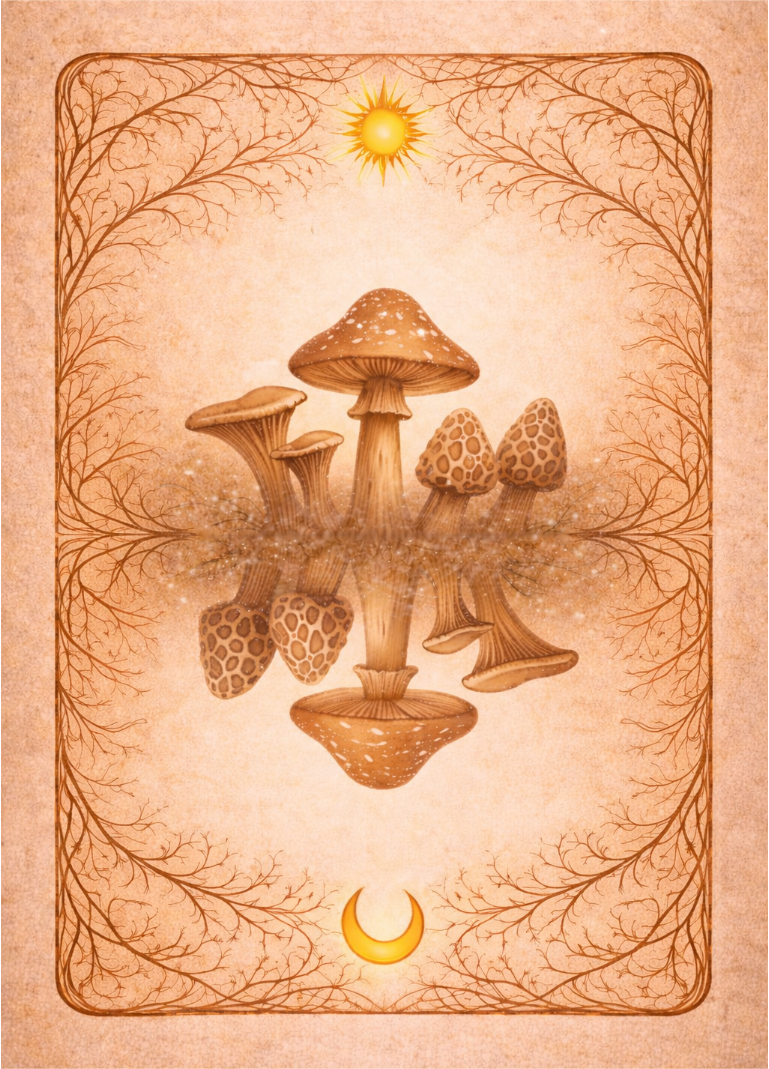
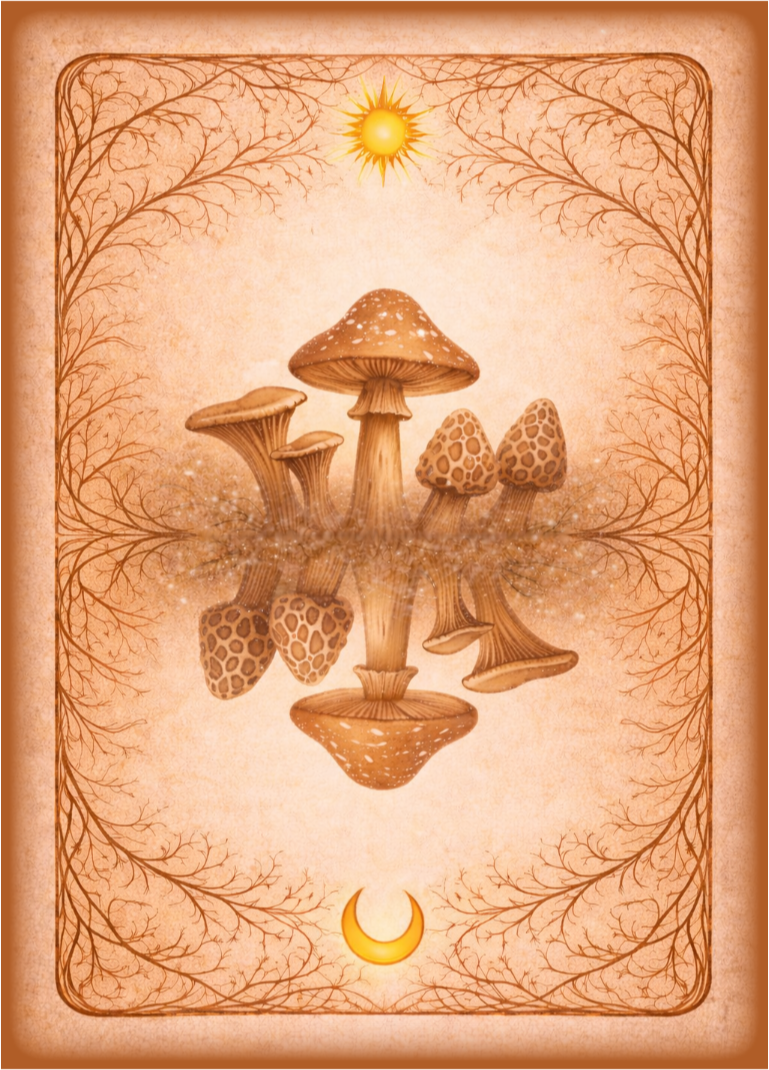
remove dark card outline

Changed region(s): [[0.0, 0.0, 0.9987, 1.0], [0.3433, 0.0617, 0.4057, 0.0926], [0.6242, 0.0617, 0.6554, 0.0926]]

diff --git a/app/index.tsx b/app/index.tsx
@@ -780,8 +780,6 @@ const styles = StyleSheet.create({
     left: 0,
     borderRadius: radii.lg,
     overflow: "hidden",
-    borderWidth: 1,
-    borderColor: colors.borderSoft,
     backgroundColor: colors.surfaceAlt,
   },
   fanCardImage: {
